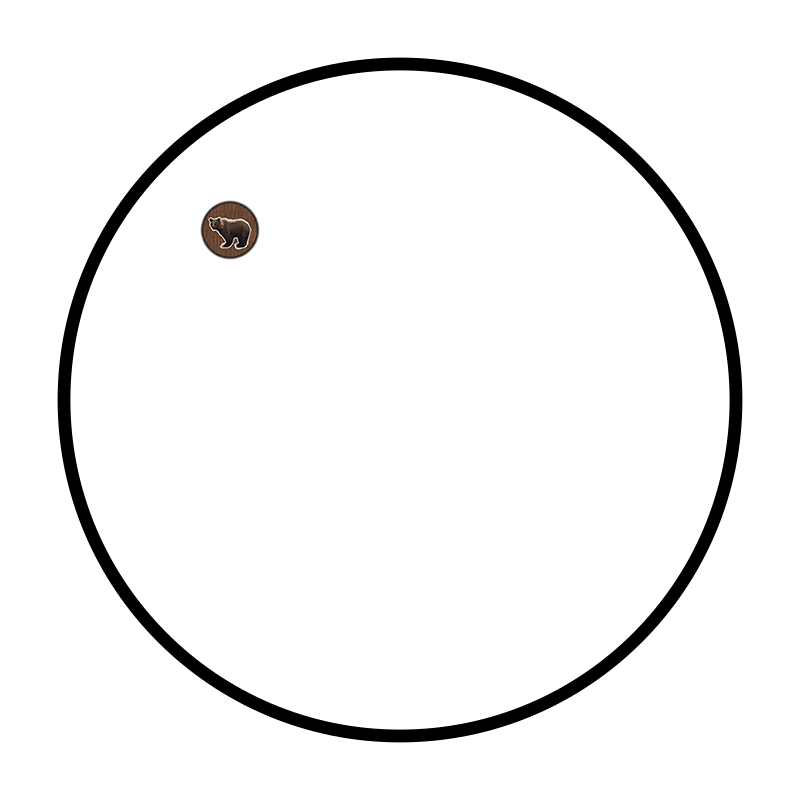
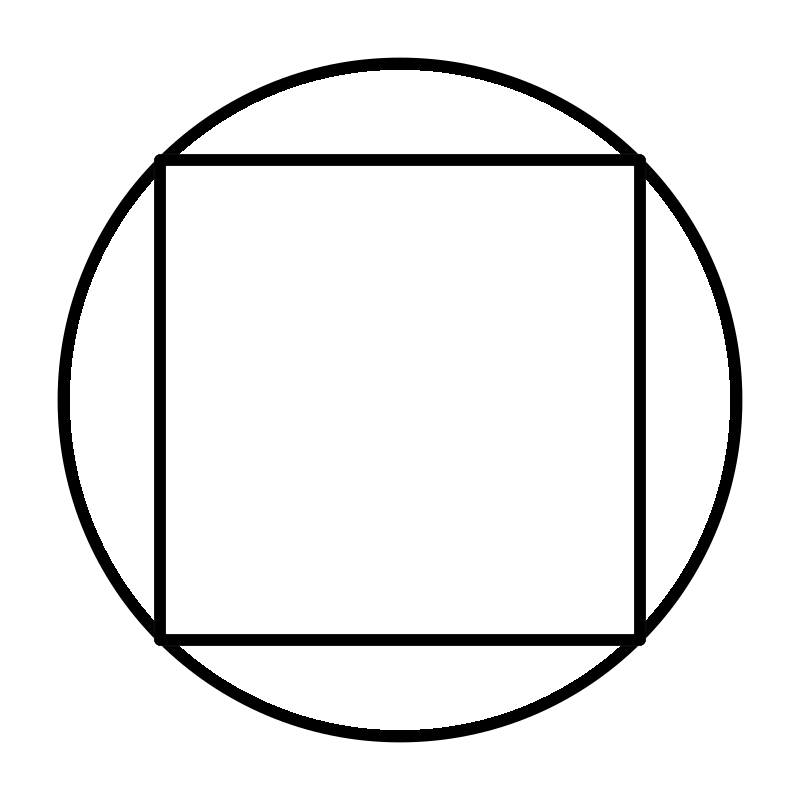
done

Changed region(s): [[0.1875, 0.1875, 0.8125, 0.8125], [0.25, 0.25, 0.3438, 0.3438]]

diff --git a/stack_image.py b/stack_image.py
@@ -1,25 +1,17 @@
 from PIL import Image
 
 square_image = Image.open('img/square_bg.png')
-circle_image = Image.open('img/circle.png').convert('RGBA')
-img = Image.open('img/B.png').convert('RGBA')
-print(img.mode)
-print(square_image.mode)
+circle_image = Image.open('img/circle_bg.png').convert('RGBA')
 
-square_image=square_image.resize((400, 400))
-circle_image.paste(img, (200, 200))
+# resize square image
+square_image = square_image.resize((circle_image.width, circle_image.height))
 
-#square_image.paste(circle_image, (200, 200), circle_image)
-#square_image.save('img/circle+square.png')
+# put square on the middle circle image
+circle_image.paste(square_image, (0, 0), square_image)
+
+# save image
 circle_image.save('img/circle+square.png')
 
-'''
-square_image = square_image.resize((100, 100))
-circle_image = circle_image.resize((50, 50))
-
-square_image.paste(circle_image, (25, 25))
-
-square_image.save('img/circle+square.png')
-'''
+# close images
 circle_image.close()
 square_image.close()

diff --git a/image_color_changer.py b/image_color_changer.py
@@ -10,18 +10,17 @@ circle_img = circle_img.convert('RGBA')
 # load pixel data
 pixels = circle_img.load()
 
-# iterate through the image to remove background
+# iterate through the image to change white pixels to green
 for i in range(circle_img.width):
     for j in range(circle_img.height):
-        # if current pixel is white, change it to transparent
+        # if current pixel is white, change it to green
         r, g, b, a = pixels[i, j]
         if r > 0:
-            # replace with transparent pixel
-            pixels[i, j] = (0, 0, 0, 0)
-
+            # replace with green pixel
+            pixels[i, j] = (0, 255, 0, 255)
 
 # save
-circle_img.save('img/circle_bg.png')
+circle_img.save('img/circle_green.png')
 
 # close
 circle_img.close()

diff --git a/load_demo.py b/load_demo.py
@@ -1,0 +1,17 @@
+# import
+from PIL import Image
+
+# open image
+image = Image.open('image.png')
+
+# load pixel data
+pixels = image.load()
+
+# access pixel at coordinates (x, y) ((0, 0) is top left)
+
+pixel = pixels[x,y]
+
+print(pixel)
+
+# close image
+image.close()

diff --git a/program_outline.py b/program_outline.py
@@ -1,0 +1,17 @@
+# import
+from PIL import Image
+
+
+# open image
+my_image = Image.open('image.png')
+
+
+# your code goes here
+
+
+# save and close image
+my_image.save('image2.png')
+my_image.close()
+
+
+
